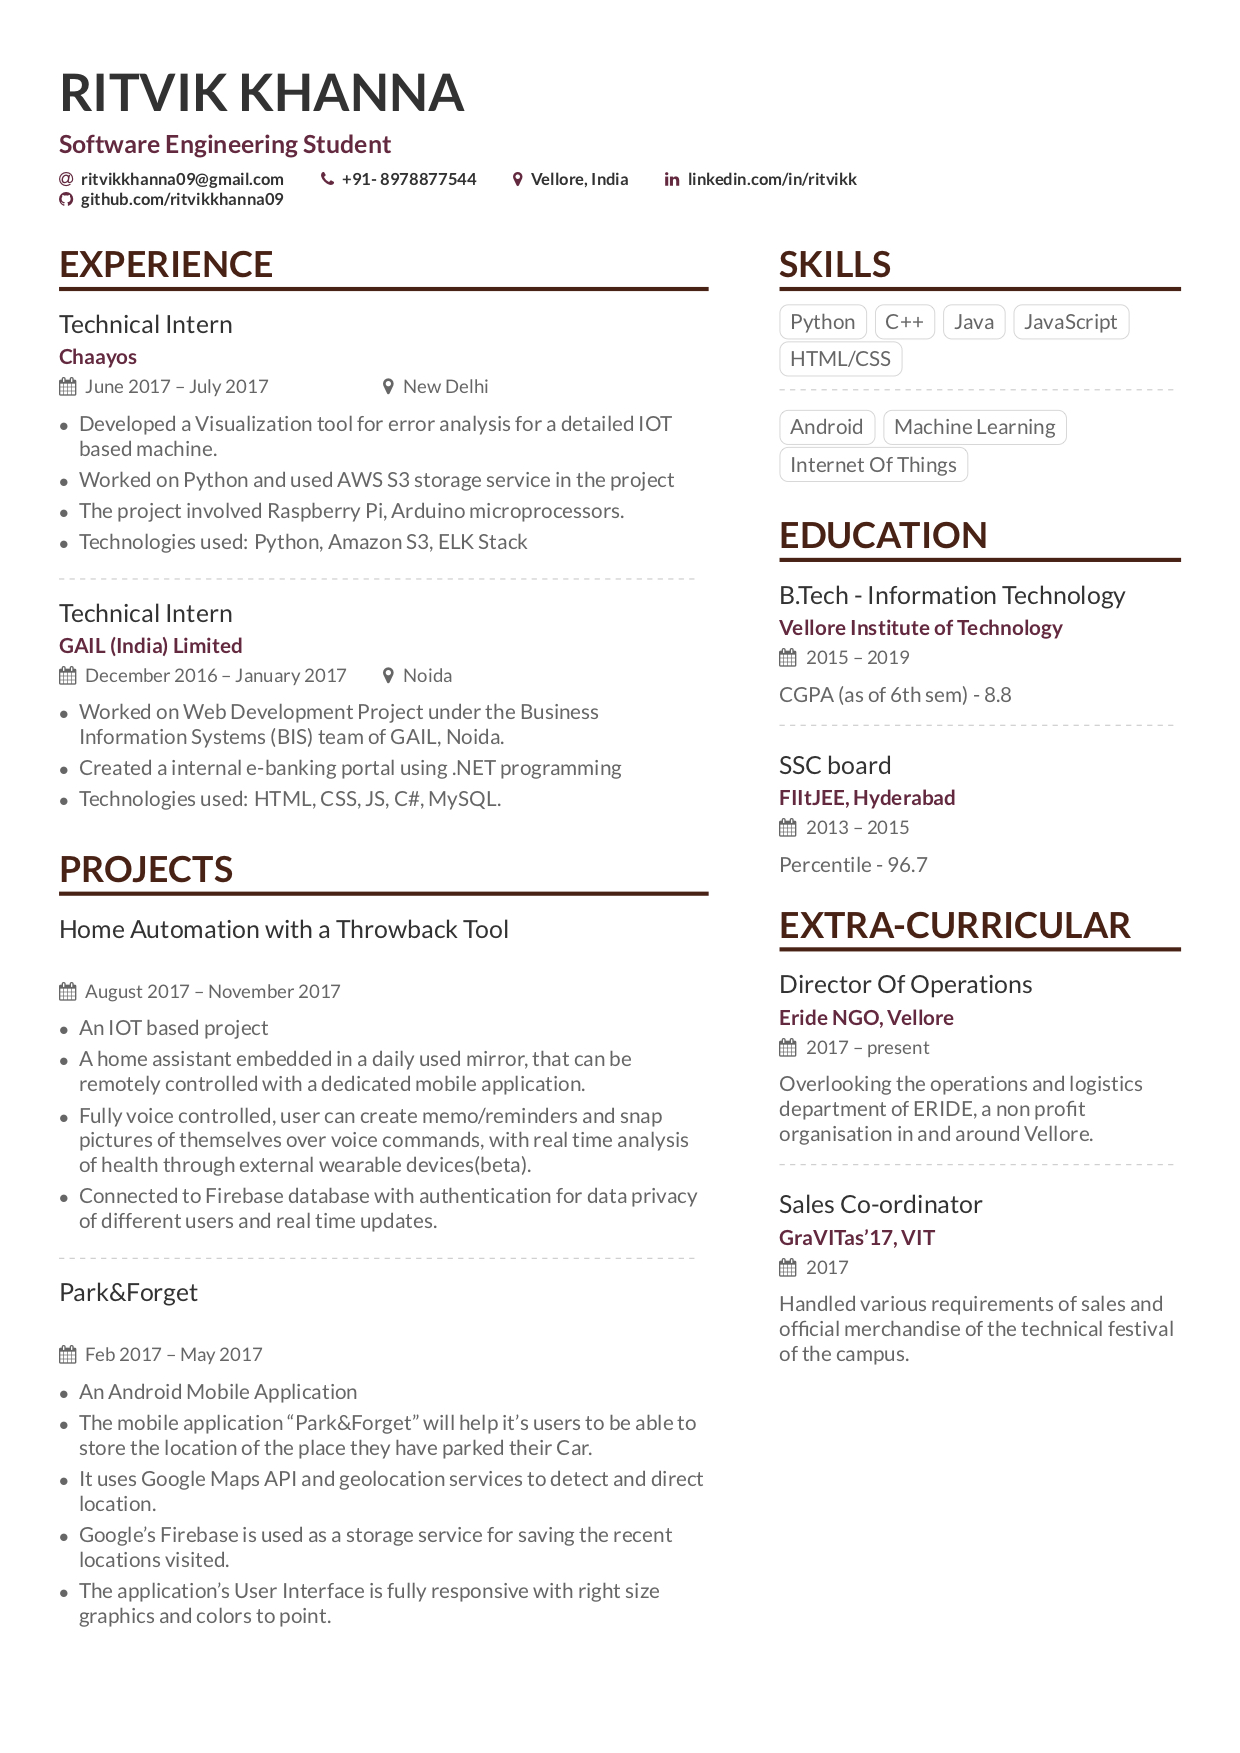
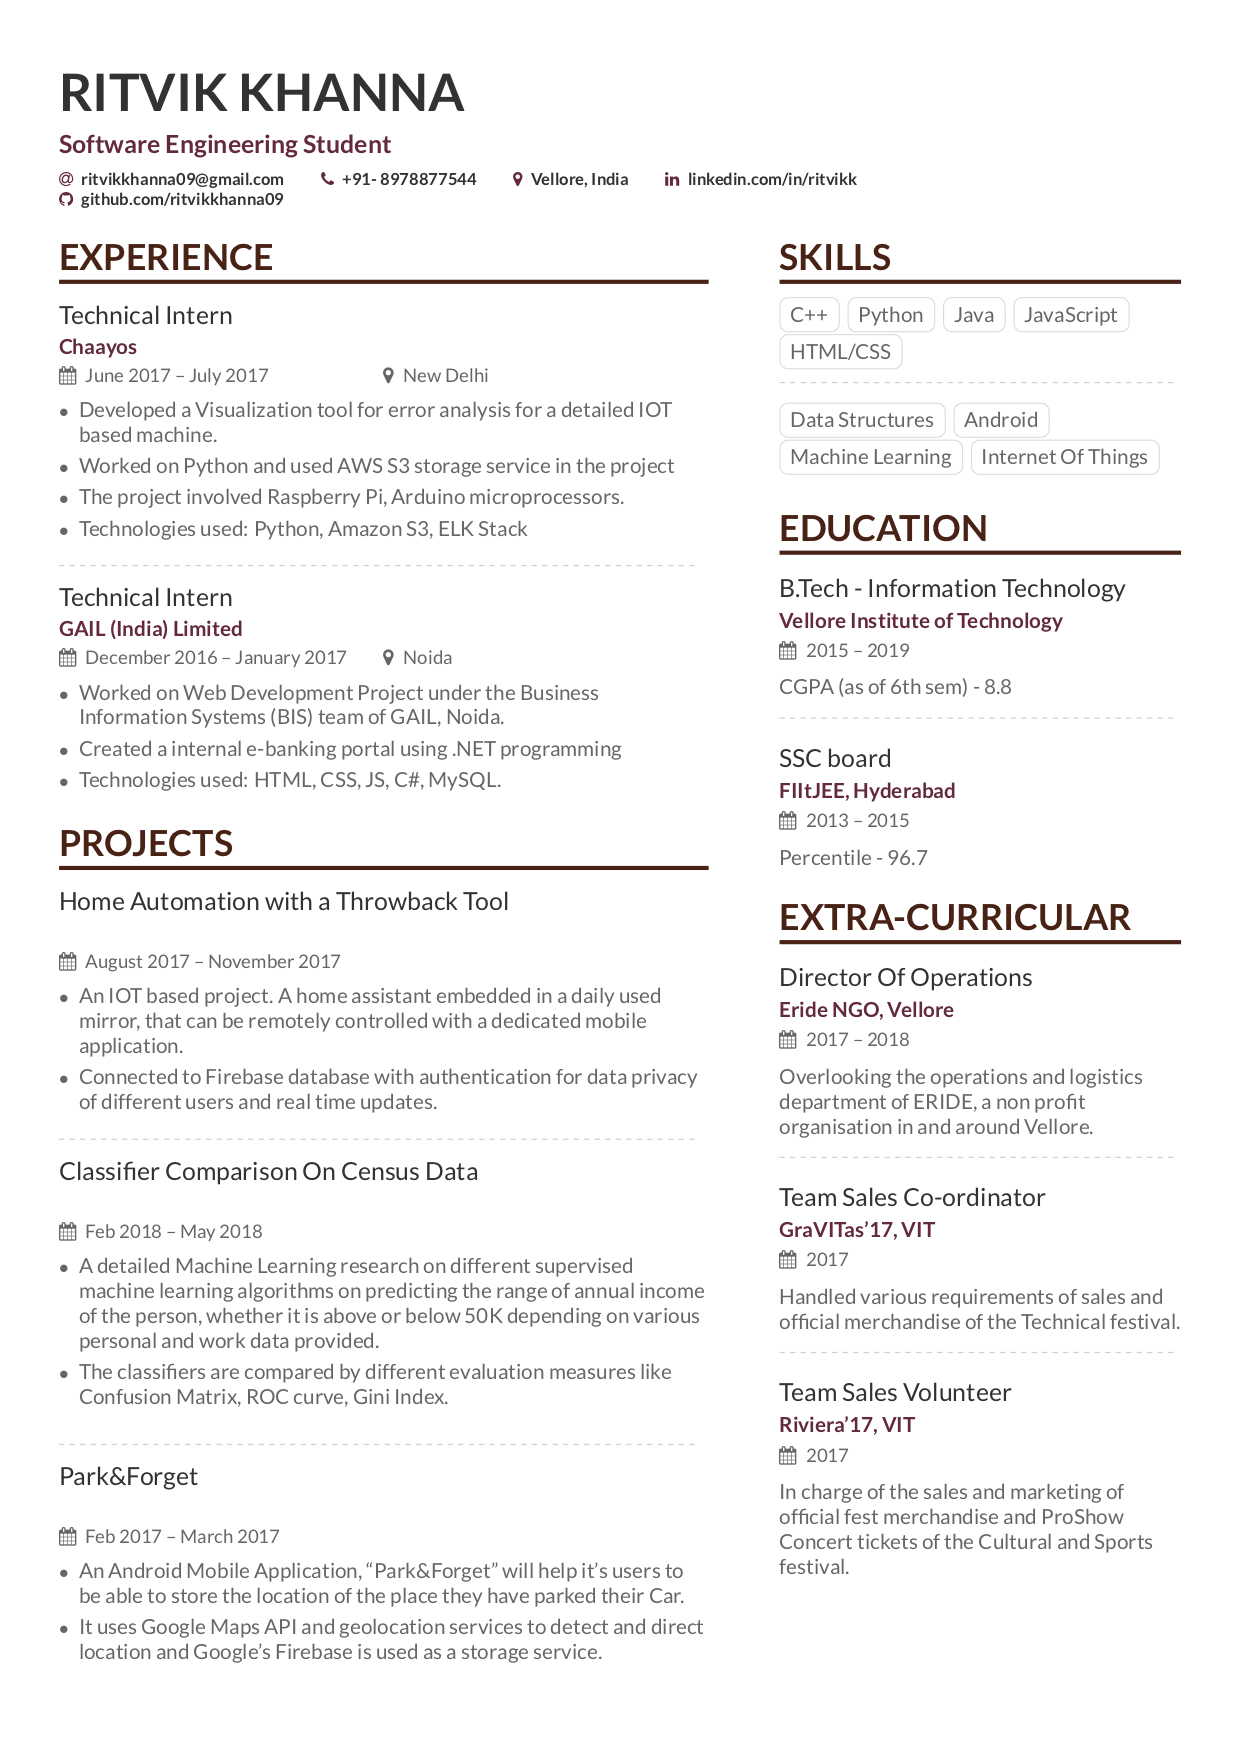
updates

Changed region(s): [[0.0306, 0.1232, 0.5823, 0.9549], [0.6129, 0.4313, 0.95, 0.8933], [0.6129, 0.1232, 0.95, 0.4005]]

diff --git a/main.tex b/main.tex
@@ -116,26 +116,31 @@
 
 \cvsection{Projects}
 
-
 \cvevent{Home Automation with a Throwback Tool}{}{August 2017 -- November 2017}{}
 \begin{itemize}
-\item  An IOT based project 
-\item A home assistant embedded in a daily used mirror, that can be remotely controlled with a dedicated mobile application. 
-\item Fully voice controlled, user can create memo/reminders and snap pictures of themselves over voice commands, with real time analysis of health through external wearable devices(beta).
+\item  An IOT based project. A home assistant embedded in a daily used mirror, that can be remotely controlled with a dedicated mobile application.
 \item Connected to Firebase database with authentication for data privacy of different users and real time updates.
 \end{itemize}
 
 \divider
 
-\cvevent{Park\&Forget}{}{Feb 2017 -- May 2017}{}
+\cvevent{Classifier Comparison On Census Data}{}{Feb 2018 -- May 2018}{}
 \begin{itemize}
-\item  An Android Mobile Application
-\item The mobile application “Park\&Forget” will help it’s users to be able to store the location of the place they have parked their Car.
-\item It uses Google Maps API and geolocation services to detect and direct location. 
-\item Google's Firebase is used as a storage service for saving the recent locations visited.
-\item The application’s User Interface is fully responsive with right size graphics and colors to point.
+\item A detailed Machine Learning research on different supervised machine learning algorithms on predicting the range of annual income of the person, whether it is above or below 50K depending on various personal and work data provided.
+\item The classifiers are compared by different evaluation measures like Confusion Matrix, ROC curve, Gini Index.
 \end{itemize}
 \medskip
+
+\divider
+
+
+\cvevent{Park\&Forget}{}{Feb 2017 -- March 2017}{}
+\begin{itemize}
+\item  An Android Mobile Application, “Park\&Forget” will help it’s users to be able to store the location of the place they have parked their Car.
+\item It uses Google Maps API and geolocation services to detect and direct location and Google's Firebase is used as a storage service.
+\end{itemize}
+\medskip
+
 
 % \cvsection{A Day of My Life}
 

diff --git a/page1sidebar.tex b/page1sidebar.tex
@@ -18,14 +18,15 @@
 
 \cvsection{Skills}
 
-\cvtag{Python} 
 \cvtag{C++}
+\cvtag{Python} 
 \cvtag{Java}
 \cvtag{JavaScript}
 \cvtag{HTML/CSS}
 
 \divider\smallskip
 
+\cvtag{Data Structures}
 \cvtag{Android}
 \cvtag{Machine Learning}
 \cvtag{Internet Of Things}
@@ -49,10 +50,16 @@ Percentile - 96.7
 \medskip
 
 \cvsection{EXTRA-CURRICULAR}
-\cvevent{Director Of Operations}{Eride NGO, Vellore}{2017 -- present}{}
+\cvevent{Director Of Operations}{Eride NGO, Vellore}{2017 -- 2018}{}
 Overlooking the operations and logistics department of ERIDE, a non profit organisation in and around Vellore.
 
 \divider\smallskip
 
-\cvevent{Sales Co-ordinator}{GraVITas'17, VIT}{2017}{}
-Handled various requirements of sales and official merchandise of the technical festival of the campus.
+\cvevent{Team Sales Co-ordinator}{GraVITas'17, VIT}{2017}{}
+Handled various requirements of sales and official merchandise of the Technical festival.
+
+
+\divider\smallskip
+
+\cvevent{Team Sales Volunteer}{Riviera'17, VIT}{2017}{}
+In charge of the sales and marketing of official fest merchandise and ProShow Concert tickets of the Cultural and Sports festival.

diff --git a/README.md b/README.md
@@ -1,1 +1,33 @@
-![Resume](https://github.com/ritvikkhanna09/Resume/blob/master/Ritvik_Resume.jpg)
+# AltaCV, yet another LaTeX CV/Résumé class
+
+v1.1.3 (30 April 2017), by LianTze Lim (liantze@gmail.com)
+
+(Thanks to [Nur](https://github.com/nurh) for the name.)
+
+It all started with this:
+
+[<img src="tweet-that-started-this.png" width="500px">]
+(https://twitter.com/Leonduck/status/764281546408923136)
+
+Leonardo was talking about a [résumé of Marissa Mayer that Business Insider put together](http://www.businessinsider.my/a-sample-resume-for-marissa-mayer-2016-7/) using [enhancv.com](https://enhancv.com).
+I _knew_ I had to do something about it. And so AltaCV was born.
+
+## Samples
+
+This is how the re-created résumé looks like ([view/open on Overleaf](https://www.overleaf.com/read/gtqfpbwncfvp)):
+
+<img src="mmayer.png" alt="Marissa Mayer's résumé, re-created with AltaCV" width="600px">
+
+Though if you're creating your own CV/résumé, you'd probably prefer using the basic template ([view/open on Overleaf](https://www.overleaf.com/read/trgqjpwnmtgv)):
+
+<img src="sample.png" alt="sample barebones AltaCV template" width="600px">
+
+
+## Requirements and Compilation
+
+* pdflatex + biber + pdflatex
+* AltaCV uses [`fontawesome`](http://www.ctan.org/pkg/fontawesome) and [`academicons`](http://www.ctan.org/pkg/academicons); they're included in both TeX Live 2016 and MikTeX 2.9.
+* Loading `academicons` is optional: enable it by adding the `academicons` option to `\documentclass`.
+* Can now be compiled with pdflatex, XeLaTeX and LuaLaTeX!
+* However if you're using `academicons`, you _must_ use either XeLaTeX or LuaLaTeX. If the doc then compiles but the icons don't show up in the output PDF, try compiling with LuaLaTeX instead.
+* The samples here use the [Lato](http://www.latofonts.com/lato-free-fonts/) font.
